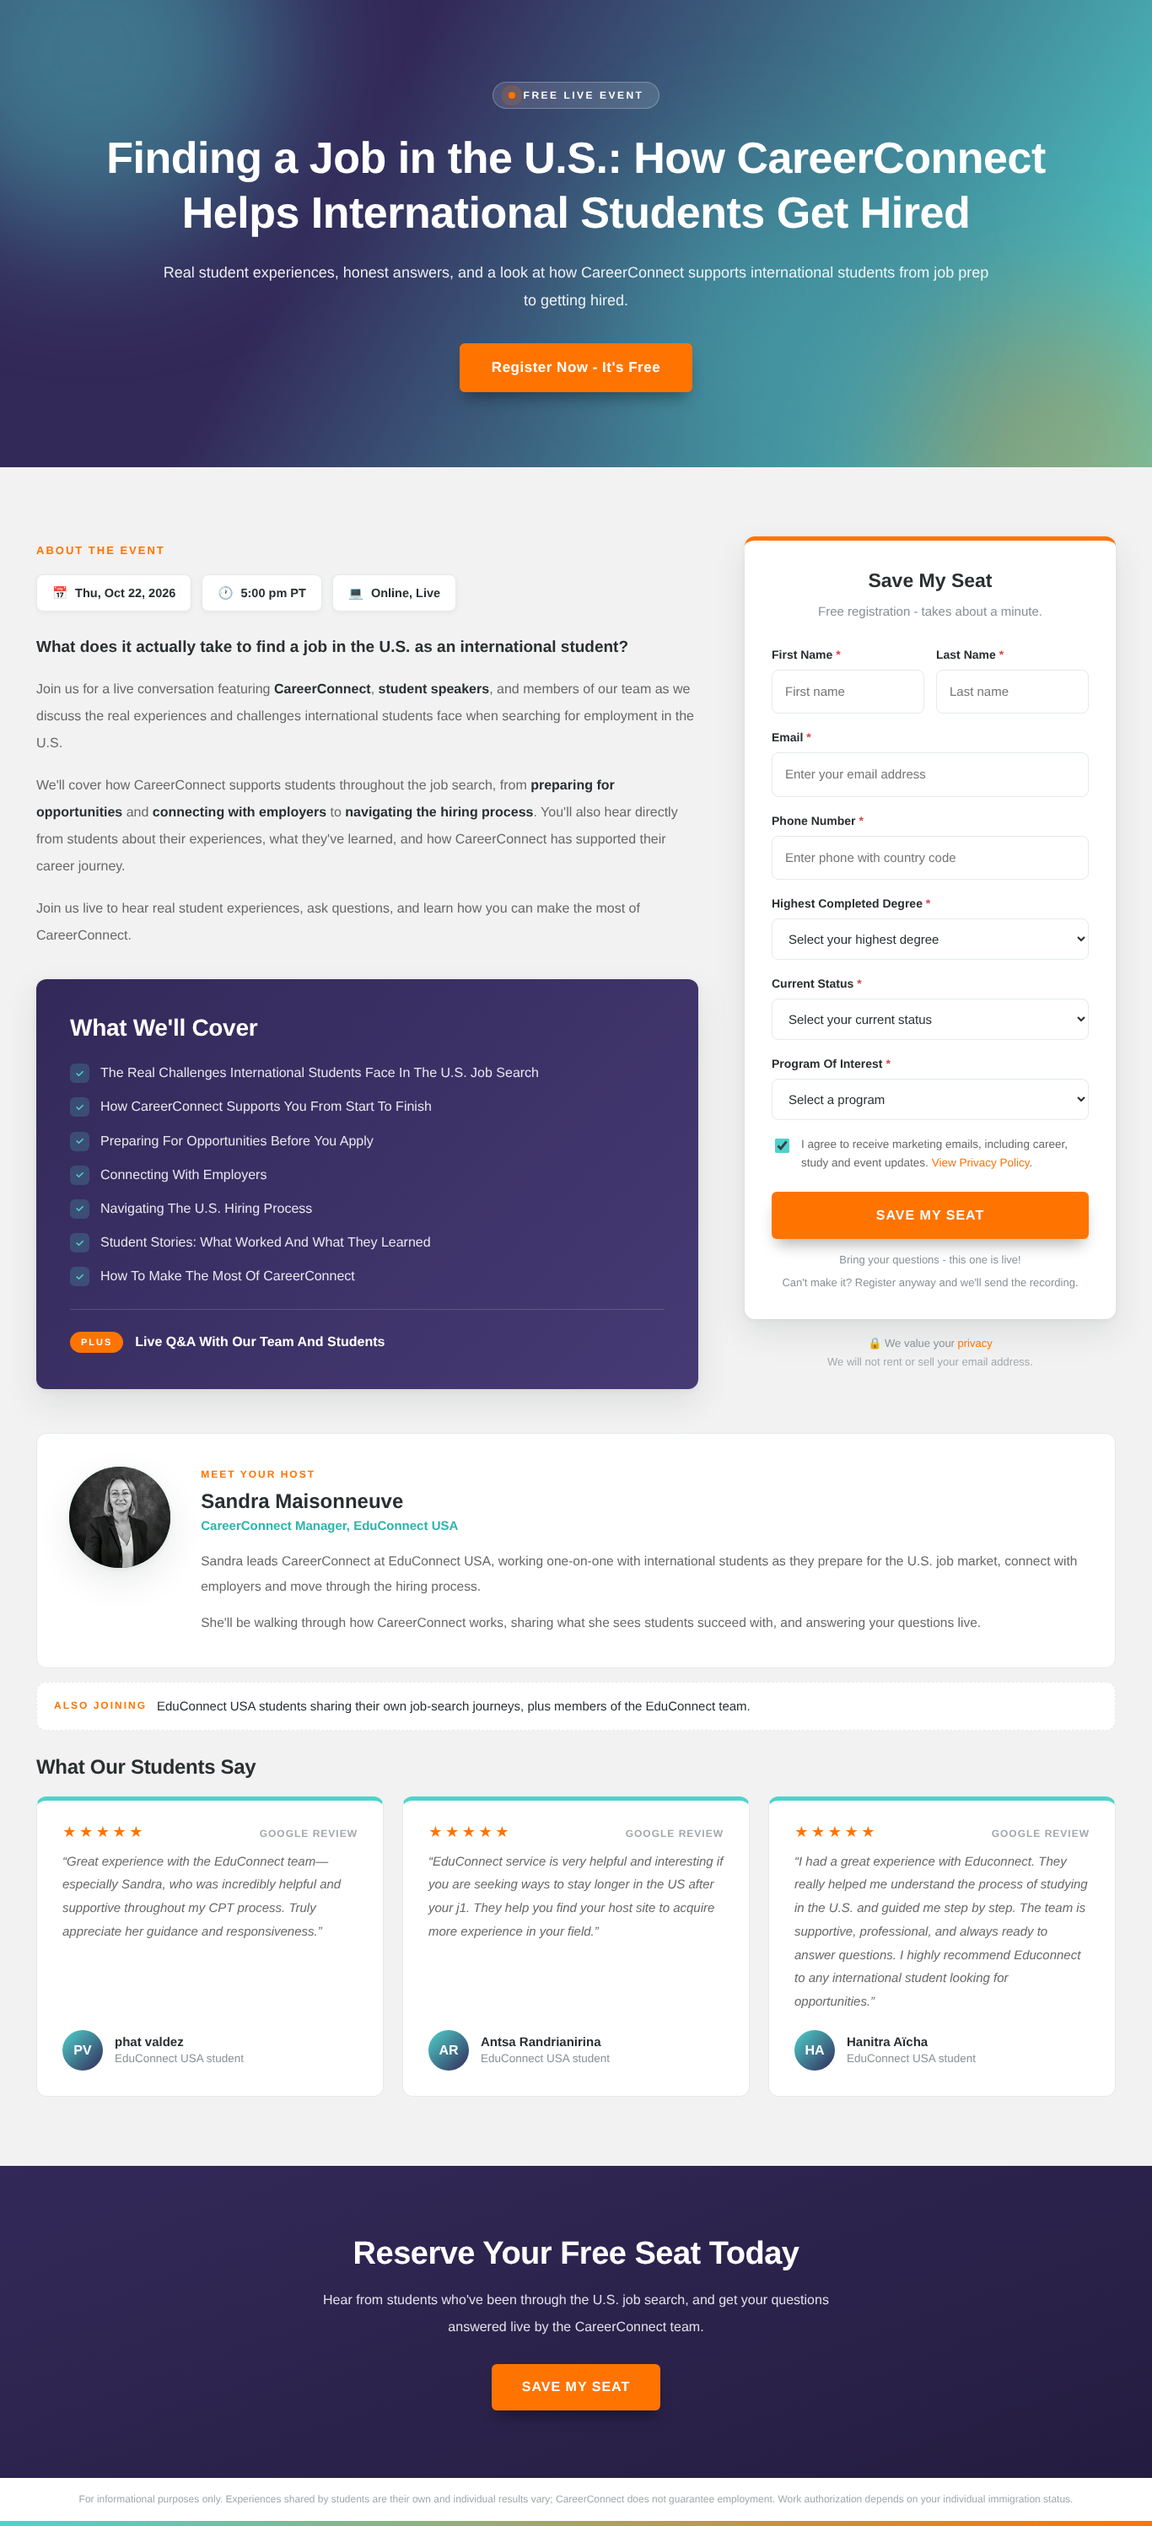
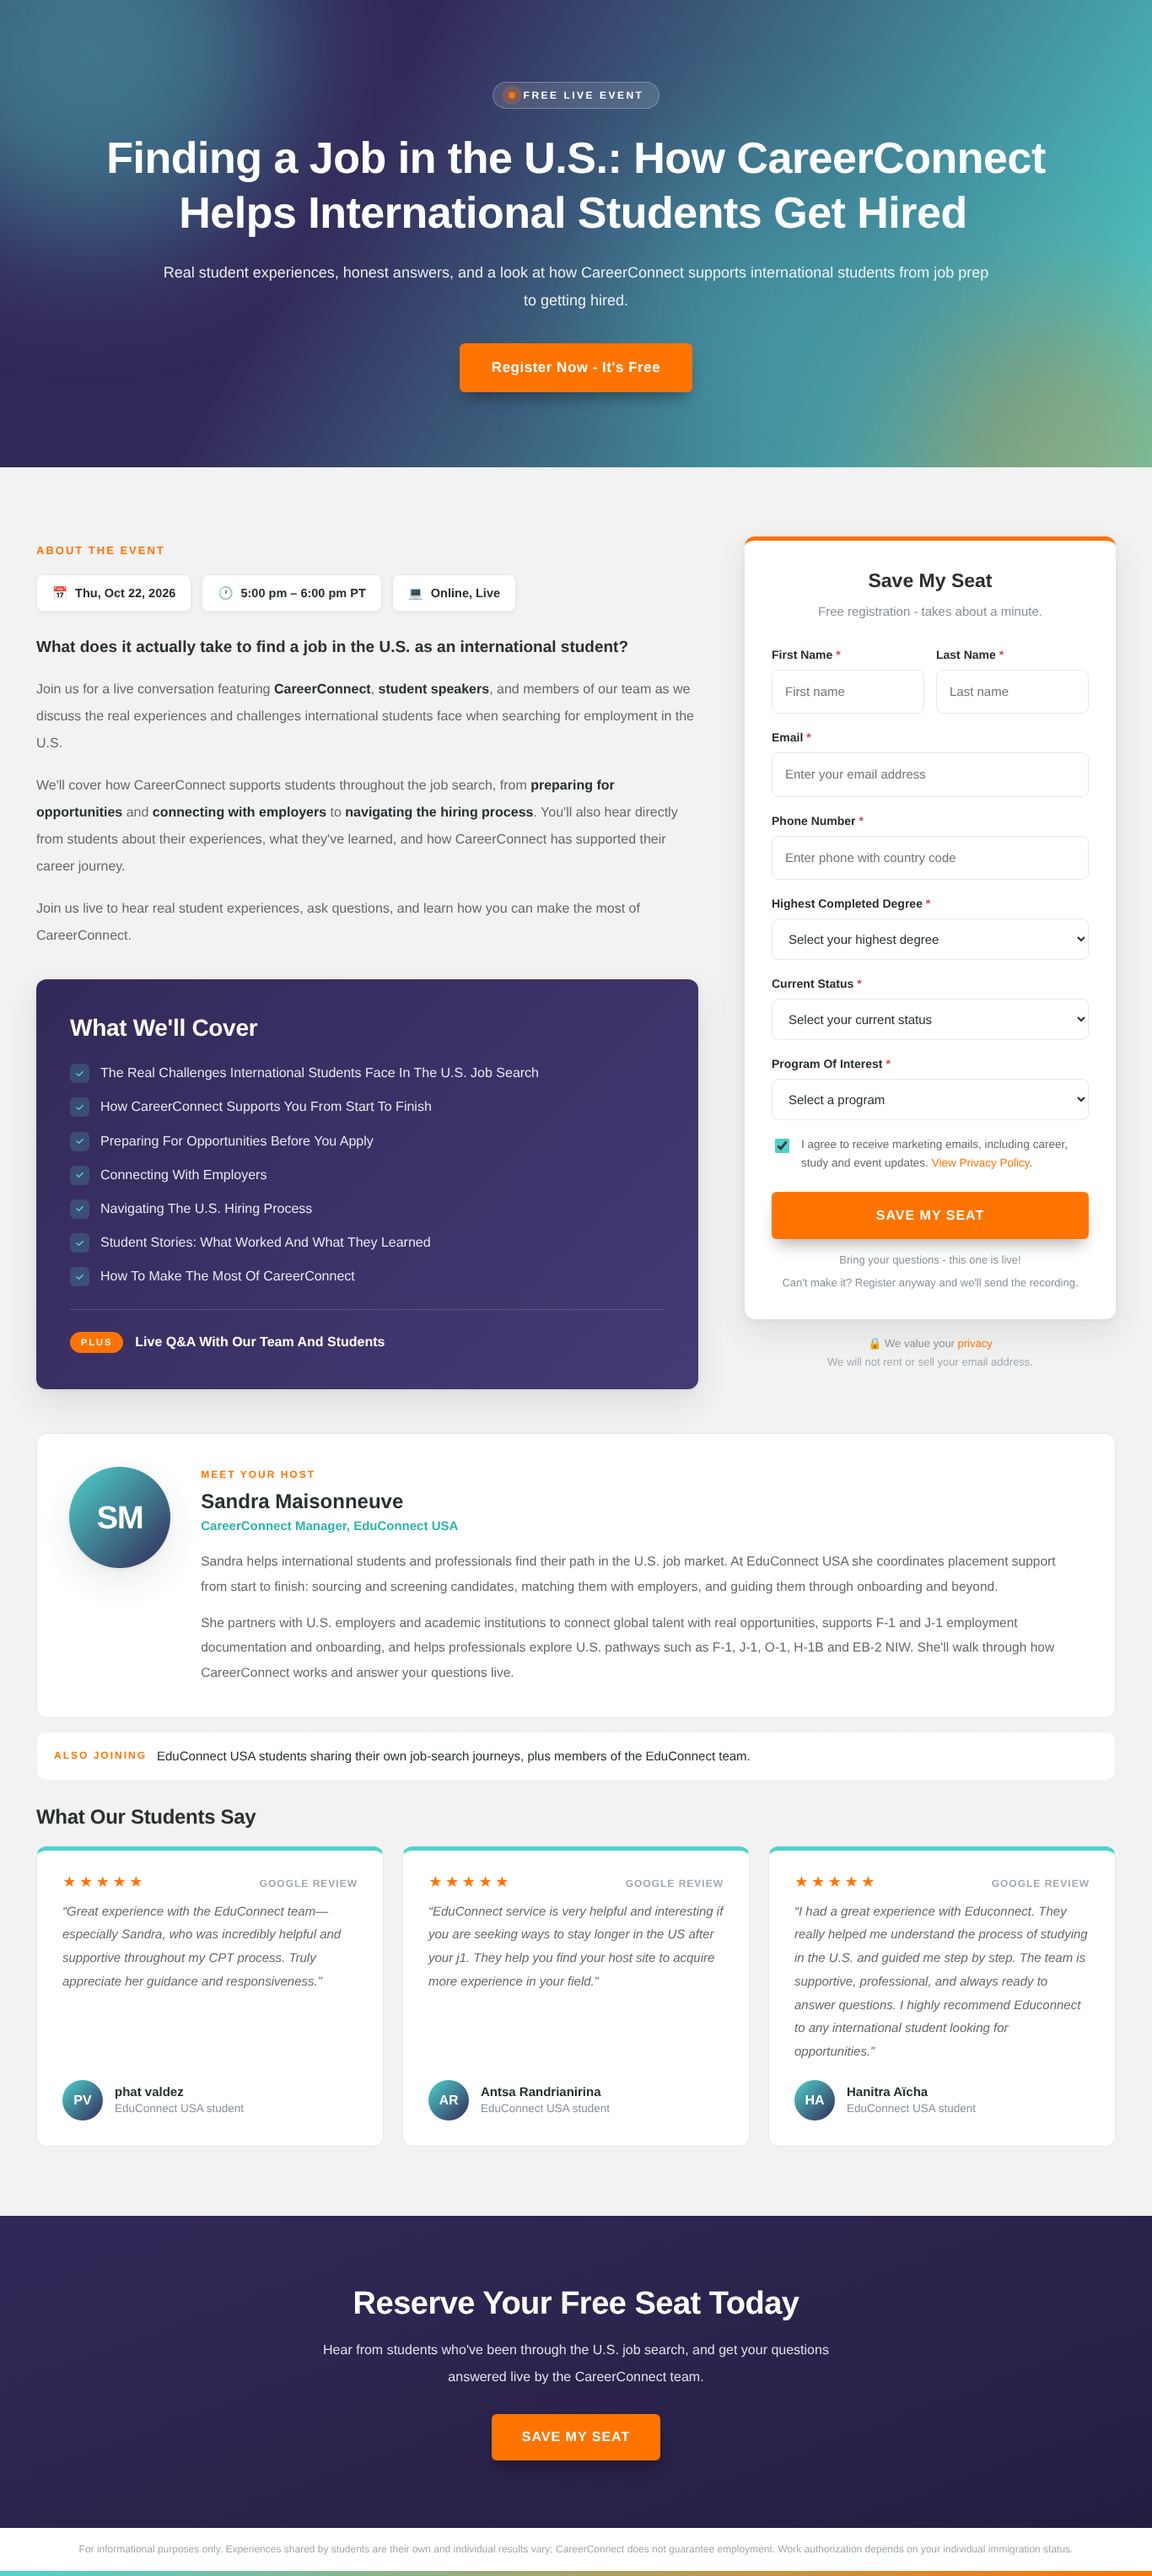
CareerConnect webinar: add Zoom link, Sandra's bio and photo URL, 1-hour time
Claude-Session: https://claude.ai/code/session_01L3cDkAvSnVSgToZjTwvYnL

diff --git a/webinars/careerconnect-job-search/page.html b/webinars/careerconnect-job-search/page.html
@@ -24,13 +24,13 @@
   "endDate": "2026-10-22T18:00:00-07:00",
   "eventAttendanceMode": "https://schema.org/OnlineEventAttendanceMode",
   "eventStatus": "https://schema.org/EventScheduled",
-  "location": { "@type": "VirtualLocation", "url": "ZOOM_URL_HERE" },
+  "location": { "@type": "VirtualLocation", "url": "https://zoom.us/webinar/register/3117914806570/WN_VwH1ZbQQRdCe7aVVE89PJw" },
   "organizer": { "@type": "Organization", "name": "EduConnect USA", "url": "https://educonnectusa.com/" },
   "performer": { "@type": "Person", "name": "Sandra Maisonneuve", "jobTitle": "CareerConnect Manager, EduConnect USA" },
   "offers": {
     "@type": "Offer", "price": "0", "priceCurrency": "USD",
     "availability": "https://schema.org/InStock",
-    "url": "ZOOM_URL_HERE",
+    "url": "https://zoom.us/webinar/register/3117914806570/WN_VwH1ZbQQRdCe7aVVE89PJw",
     "validFrom": "2026-10-07T00:00:00-07:00"
   }
 }
@@ -48,12 +48,7 @@
      Scoped to #ccw-page, all classes prefixed ccw- so it can't collide with
      the Duration of Status page (#dos-page) or the site header (.ech-header).
 
-     >>> BEFORE PUBLISHING
-     1. Find/replace ZOOM_URL_HERE with the Zoom registration link (6 spots).
-     2. Upload sandra-maisonneuve.png to Media. If its URL is not
-        https://educonnectusa.com/wp-content/uploads/2026/10/sandra-maisonneuve.png
-        update the <img> in the speaker block. (If the image fails to load,
-        her initials "SM" show instead.)
+     Zoom link and speaker photo are already set.
 ============================================================================ -->
 
 <style>
@@ -394,7 +389,7 @@
       <div class="ccw-badge"><span class="ccw-dot" aria-hidden="true"></span>Free Live Event</div>
       <h1 id="ccwHeadline" aria-label="Finding a Job in the U.S.: How CareerConnect Helps International Students Get Hired" data-headline="Finding a Job in the U.S.: How CareerConnect Helps International Students Get Hired"><span id="ccwHeadlineText"></span><span class="ccw-cursor" aria-hidden="true"></span></h1>
       <p class="ccw-hero-sub">Real student experiences, honest answers, and a look at how CareerConnect supports international students from job prep to getting hired.</p>
-      <a href="ZOOM_URL_HERE" class="ccw-hero-btn" target="_blank" rel="noopener">Register Now - It's Free</a>
+      <a href="https://zoom.us/webinar/register/3117914806570/WN_VwH1ZbQQRdCe7aVVE89PJw" class="ccw-hero-btn" target="_blank" rel="noopener">Register Now - It's Free</a>
     </div>
   </section>
 
@@ -410,7 +405,7 @@
 
           <ul class="ccw-pills">
             <li class="ccw-pill"><span aria-hidden="true">📅</span> Thu, Oct 22, 2026</li>
-            <li class="ccw-pill"><span aria-hidden="true">🕐</span> 5:00 pm PT</li>
+            <li class="ccw-pill"><span aria-hidden="true">🕐</span> 5:00 pm &ndash; 6:00 pm PT</li>
             <li class="ccw-pill"><span aria-hidden="true">💻</span> Online, Live</li>
           </ul>
 
@@ -533,7 +528,7 @@
                 <div class="ccw-tick" aria-hidden="true">✓</div>
                 <h3>One last step</h3>
                 <p>Confirm your seat on Zoom and your personal join link will be emailed to you right away.</p>
-                <a class="ccw-submit" id="ccwThanksCta" href="ZOOM_URL_HERE" target="_blank" rel="noopener" style="margin-top:20px;text-decoration:none">Confirm On Zoom</a>
+                <a class="ccw-submit" id="ccwThanksCta" href="https://zoom.us/webinar/register/3117914806570/WN_VwH1ZbQQRdCe7aVVE89PJw" target="_blank" rel="noopener" style="margin-top:20px;text-decoration:none">Confirm On Zoom</a>
               </div>
 
             </div>
@@ -551,7 +546,7 @@
 
         <div class="ccw-speaker">
           <div class="ccw-sp-av" aria-hidden="true">
-            <img decoding="async" src="https://educonnectusa.com/wp-content/uploads/2026/10/sandra-maisonneuve.png"
+            <img decoding="async" src="https://educonnectusa.com/wp-content/uploads/2026/10/image-2026-10-08T102837.809.png"
                  alt="" width="120" height="120" loading="lazy"
                  onerror="var p=this.parentNode;this.remove();p.textContent='SM';" />
           </div>
@@ -559,8 +554,8 @@
             <span class="ccw-sp-eyebrow">Meet Your Host</span>
             <div class="ccw-sp-name">Sandra Maisonneuve</div>
             <div class="ccw-sp-title">CareerConnect Manager, EduConnect USA</div>
-            <p class="ccw-sp-bio">Sandra leads CareerConnect at EduConnect USA, working one-on-one with international students as they prepare for the U.S. job market, connect with employers and move through the hiring process.</p>
-            <p class="ccw-sp-bio">She'll be walking through how CareerConnect works, sharing what she sees students succeed with, and answering your questions live.</p>
+            <p class="ccw-sp-bio">Sandra helps international students and professionals find their path in the U.S. job market. At EduConnect USA she coordinates placement support from start to finish: sourcing and screening candidates, matching them with employers, and guiding them through onboarding and beyond.</p>
+            <p class="ccw-sp-bio">She partners with U.S. employers and academic institutions to connect global talent with real opportunities, supports F-1 and J-1 employment documentation and onboarding, and helps professionals explore U.S. pathways such as F-1, J-1, O-1, H-1B and EB-2 NIW. She'll walk through how CareerConnect works and answer your questions live.</p>
           </div>
         </div>
 
@@ -631,7 +626,7 @@
     <div class="ccw-wrap">
       <h2>Reserve Your Free Seat Today</h2>
       <p>Hear from students who've been through the U.S. job search, and get your questions answered live by the CareerConnect team.</p>
-      <a href="ZOOM_URL_HERE" class="ccw-cta-btn" target="_blank" rel="noopener">Save My Seat</a>
+      <a href="https://zoom.us/webinar/register/3117914806570/WN_VwH1ZbQQRdCe7aVVE89PJw" class="ccw-cta-btn" target="_blank" rel="noopener">Save My Seat</a>
     </div>
   </section>
 
@@ -681,7 +676,7 @@
 
   /* ---------- registration form ---------- */
   /* Every submission hands off to the Zoom registration page. */
-  var ZOOM_URL = "ZOOM_URL_HERE";
+  var ZOOM_URL = "https://zoom.us/webinar/register/3117914806570/WN_VwH1ZbQQRdCe7aVVE89PJw";
 
   var form   = document.getElementById("ccwForm");
   var thanks = document.getElementById("ccwThanks");
